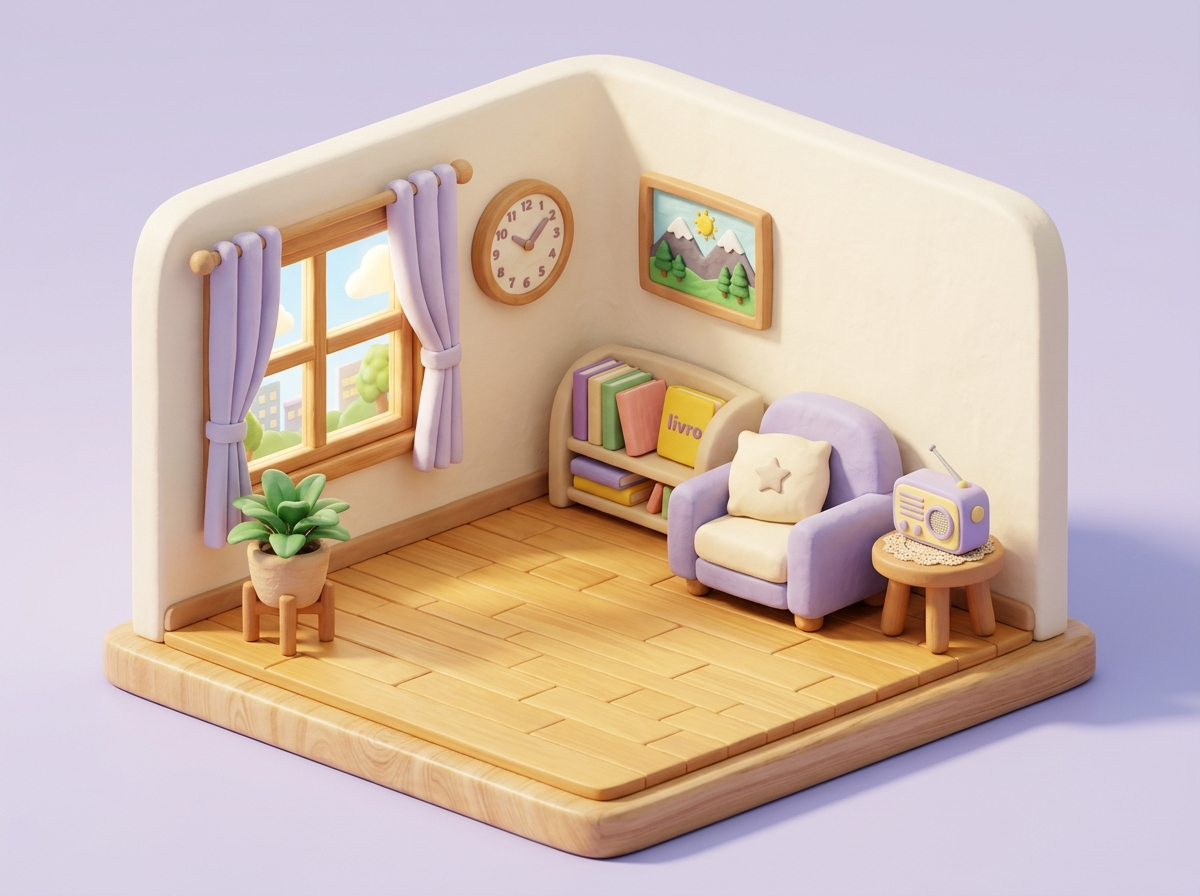
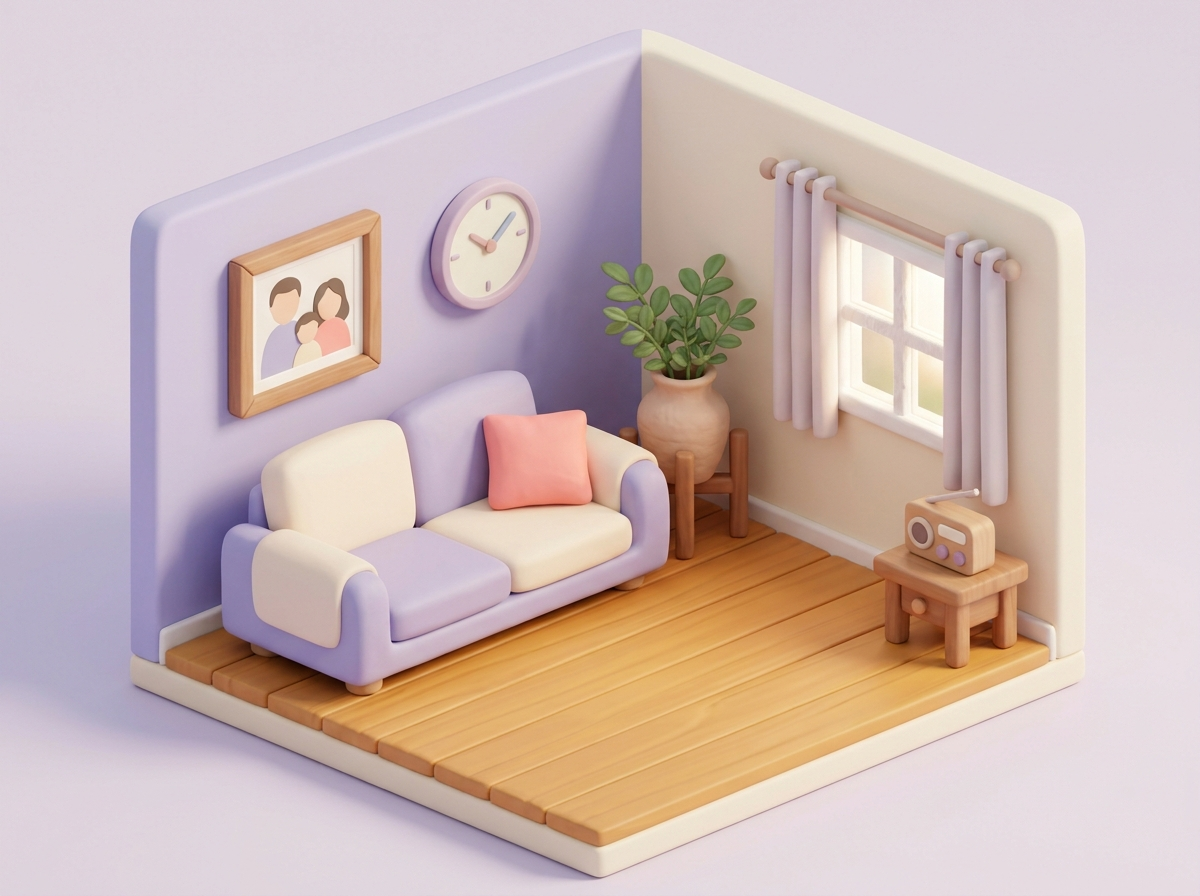
feat(assets): atualiza cenarios 3D (quarto com pufe, sala com sofa, banheiro com papel) e adiciona papel.jpg

diff --git a/src/data/worldsData.ts b/src/data/worldsData.ts
@@ -9,7 +9,7 @@ export const WORLDS_DATA: WorldRoom[] = [
     description: 'Decore todo o quarto da criança soletrando cada móvel e brinquedo!',
     icon: '🛏',
     requiredStars: 0,
-    sceneImage: '/images/bedroom_scene.jpg?v=2',
+    sceneImage: '/images/bedroom_scene.jpg?v=3',
     sceneSubtitle: 'Descubra os objetos misteriosos abaixo para revelar o quarto!',
     completedTitle: 'Quarto Completo! 🏆',
     completedBanner: 'Quartinho 100% Montado!',
@@ -381,7 +381,7 @@ export const WORLDS_DATA: WorldRoom[] = [
     description: 'Descubra os objetos da sala para relaxar, ouvir música e se divertir!',
     icon: '🛋',
     requiredStars: 12,
-    sceneImage: '/images/living_room_scene.jpg?v=2',
+    sceneImage: '/images/living_room_scene.jpg?v=3',
     sceneSubtitle: 'Descubra os objetos misteriosos abaixo para revelar a sala!',
     completedTitle: 'Sala Completa! 🏆',
     completedBanner: 'Sala de Estar 100% Montada!',
@@ -563,7 +563,7 @@ export const WORLDS_DATA: WorldRoom[] = [
     description: 'Espuma cheirosa, banho quentinho e muita diversão na água!',
     icon: '🛁',
     requiredStars: 20,
-    sceneImage: '/images/bathroom_scene.jpg?v=2',
+    sceneImage: '/images/bathroom_scene.jpg?v=3',
     sceneSubtitle: 'Descubra os objetos misteriosos abaixo para revelar o banheiro!',
     completedTitle: 'Banheiro Completo! 🏆',
     completedBanner: 'Banheiro 100% Montado!',

diff --git a/public/sw.js b/public/sw.js
@@ -1,5 +1,5 @@
 // Service Worker para Soletrando o Mundo (PWA Offline)
-const CACHE_NAME = 'soletrando-mundo-v4';
+const CACHE_NAME = 'soletrando-mundo-v5';
 
 const STATIC_ASSETS = [
   '/',
@@ -8,14 +8,17 @@ const STATIC_ASSETS = [
   '/icons/icon.svg',
   '/icons/icon-192.svg',
   '/icons/icon-512.svg',
-  '/images/bedroom_scene.jpg?v=2',
+  '/images/bedroom_scene.jpg?v=3',
   '/images/bedroom_scene.jpg',
   '/images/kitchen_scene.jpg?v=2',
   '/images/kitchen_scene.jpg',
-  '/images/living_room_scene.jpg?v=1',
-  '/images/bathroom_scene.jpg?v=1',
+  '/images/living_room_scene.jpg?v=3',
+  '/images/living_room_scene.jpg',
+  '/images/bathroom_scene.jpg?v=3',
+  '/images/bathroom_scene.jpg',
   '/images/garden_scene.jpg?v=1',
   '/images/house_bonus_scene.jpg?v=1',
+  '/images/papel.jpg',
   '/audio/feedback/inverted.mp3',
   '/audio/feedback/welcome.mp3',
   '/audio/feedback/almost.mp3'
